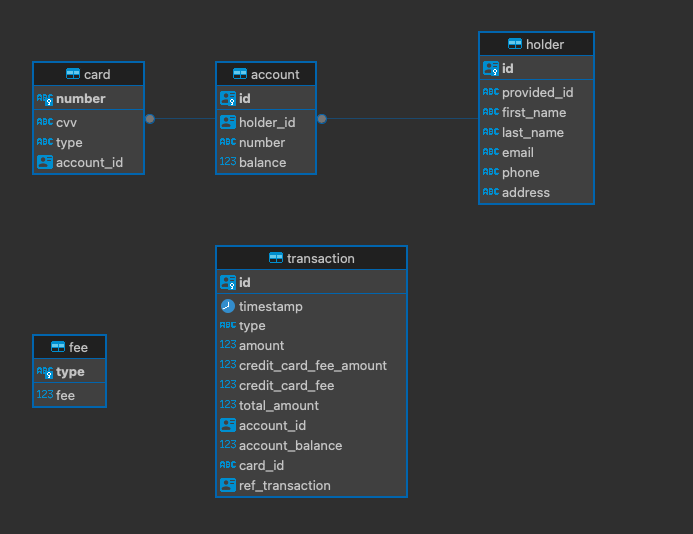
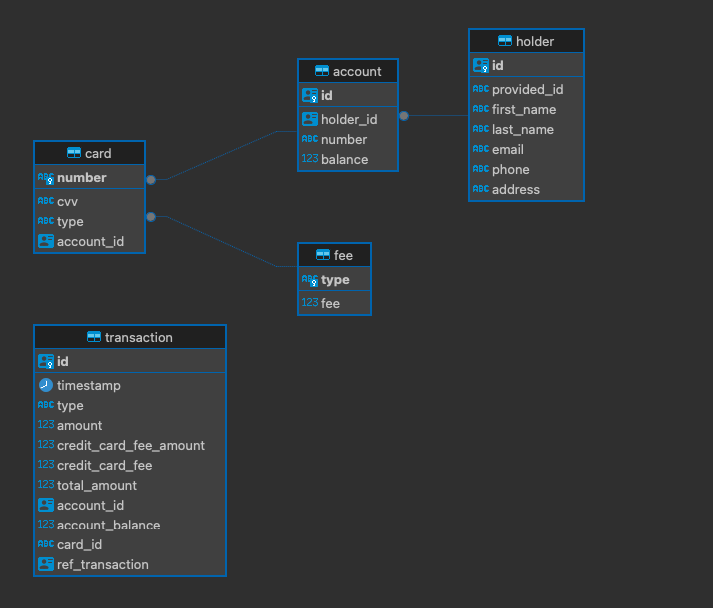
Final updates on the readme. Making the card type relational to the card fee so we enforce that a card that is not in the fee table can be created.

diff --git a/README.md b/README.md
@@ -1,12 +1,28 @@
 # **Simple Bank Account Simulation**
 
-**Overview**
+#### Summary
+
+* [Overview](#overview)
+* [Requirements & Validations](#requirements--validations)
+* [Assumptions](#assumptions)
+* [Future Considerations (Improvements)](#future-considerations)
+* [Technologies Used](#technologies-used)
+* [Database Diagram](#data-base-diagram)
+* [Running the project (Getting started)](#getting-started)
+  * [Requisites](#prerequisites)
+  * [Cloning the repository](#cloning-the-repository)
+  * [Running the application](#running-the-application)
+    * [Via script](#via-script)
+    * [Run it yourself](#run-it-yourself)
+  * [Swagger](#access-swagger-documentation)
+
+## **Overview**
 
 This project simulates a simple bank account system where users can transfer and withdraw money using debit or credit cards. The system charges an extra 1% fee for transactions done with a credit card.
 
-The project is built using Spring Boot 3.2 and Java 21, with PostgreSQL as the database, and is containerized using Docker. GitHub is used for version control and CI. Swagger is available for API documentation.
+The project is built using Spring Boot 3.2 and Java 21, with PostgresSQL as the database, and is containerized using Docker. GitHub is used for version control and CI. Swagger is available for API documentation.
 
-**Requirements & Validations**
+## **Requirements & Validations**
 
 - Negative balance is not allowed.
 - Each account must contain user details, card details, and the current balance.
@@ -18,7 +34,7 @@ The project is built using Spring Boot 3.2 and Java 21, with PostgreSQL as the d
 - All transfers and withdrawals should be auditable.
 
 
-**Assumptions**
+## **Assumptions**
 
 - Each user has only one account.
 - No different types of accounts are considered.
@@ -30,21 +46,20 @@ The project is built using Spring Boot 3.2 and Java 21, with PostgreSQL as the d
 - Authentication is done through an external service.
 
 
-**Future Considerations**
+## **Future Considerations**
 
 - The service is missing the authorization part. Right now all the endpoints are open to anyone to perform a request. As mentioned in the assumptions, the authentication should be handled by a different service and in the future, I would add the authorization checks in this service as well. Unfortunately I had not time to implement this, but in a real project I would add this, for sure.
 - Implement mechanisms to prevent the same transaction from being persisted twice (idempotence key, or other).
 - Add security mechanisms to prevent brute-forcing card details via the API. (rate limits or other)
-- Create REST API to retrieve transaction history.
 - Define how to expose audit data present in the transaction table (log stream, UI, API, monthly reports, or other).
 - Make card creation asynchronous to avoid account creation failure. (make usage of queues or other async mechanisms.)
-- Enhance encryption security. I have used a Symmetric-key algorithm which is not the most secure way and whoever has access to the key can see the values in the database (consider salting or other).
+- Enhance encryption security. I have used an algorithm which is not the most secure way where whoever has access to the key can see the values in the database (consider salting or other).
 - Improve the performance of the transaction table (e.g., partitioning by timestamp).
 - Setup tracing and metrics for observability using the preferred tool (Splunk, NewRelic or other).
 - As the application grows, if necessary, move the caching from local caching into distributed caching (Redis or other).
 
 
-**Technologies Used**
+## **Technologies Used**
 
 - Spring Boot 3.2
 - Java 21
@@ -56,11 +71,11 @@ The project is built using Spring Boot 3.2 and Java 21, with PostgreSQL as the d
 - GitHub Actions
 - Swagger
 
-**Data Base Diagram**
+## **Data Base Diagram**
 
 ![img.png](images/database_diagram.png)
 
-**Getting Started**
+## **Getting Started**
 
 ###### **Prerequisites**
 
@@ -68,7 +83,7 @@ The project is built using Spring Boot 3.2 and Java 21, with PostgreSQL as the d
 - Java 21
 - Maven
 
-###### Running the ApplicationRunning the Application
+###### Cloning the repository
 
 Clone the repository:
 
@@ -76,6 +91,10 @@ Clone the repository:
 git clone https://github.com/JhonydePaula22/simple-bank-account.git
 cd simple-bank-account
 ```
+
+##### Running the Application
+
+###### Via script
 
 I have created a [script](run.sh) to package and run the project. For that you **must have docker** running in your machine.
 
@@ -89,6 +108,8 @@ Running the script:
 ```shell
 ./run.sh
 ```
+
+###### Run it yourself
 
 You are of course entitled to run it yourself, so please follow the commands bellow:
 
@@ -161,6 +182,6 @@ docker run -e DB_PASSWORD=$DB_PASSWORD -e DB_URL=$DB_URL -e DB_USER=$DB_USER \
 --name simple-bank-account simple-bank-account:v1
 ```
 
-###### Access Swagger Documentation:Access Swagger Documentation:
+###### Access Swagger Documentation
 
-Open your browser and navigate to http://localhost:8080/v1/swagger-ui/index.html to explore the available REST endpoints.
+Open your browser and navigate to the swagger [url](http://localhost:8080/v1/swagger-ui/index.html) to explore the available REST endpoints.
